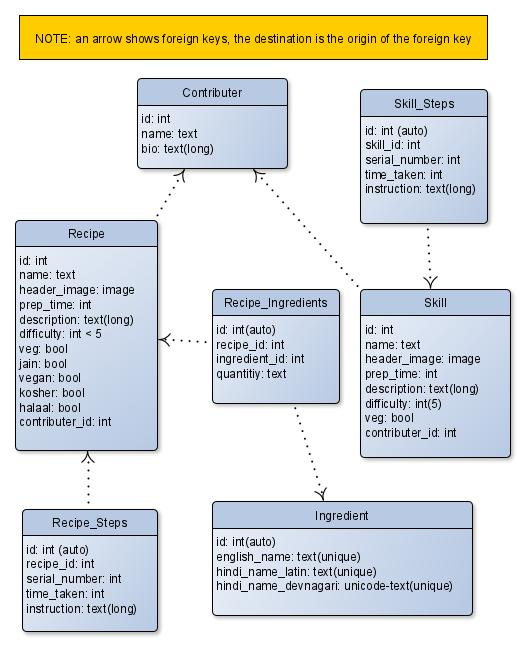
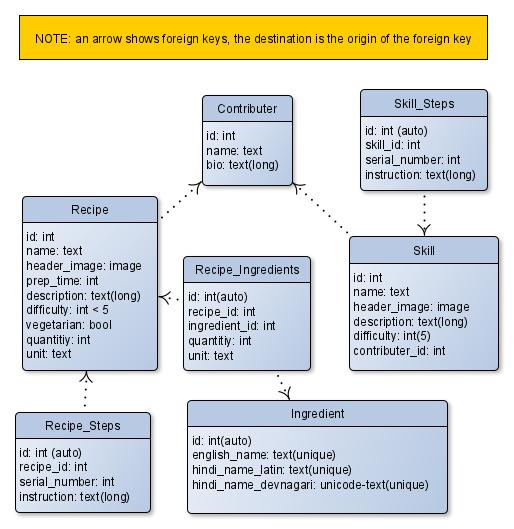
more backend work

diff --git a/Cookbook/controllers.py b/Cookbook/controllers.py
@@ -1,5 +1,8 @@
+from flask_sqlalchemy import FSADeprecationWarning
 from Cookbook import app
 from flask import jsonify, request
+from Cookbook import models
+import pprint
 
 @app.route('/')
 def home():
@@ -13,6 +16,85 @@ def home():
     <a href = "/about">about</a>
     """
     return home
+
+@app.route('/add-recipe', methods = ['POST'])
+def addRecipe():
+    if request.method == 'POST':
+        newRecipeFull = request.get_json(force = True)
+        # this 'full' recipe needs to be broken up into the tables stored in the db
+        #   recipe
+        #   steps
+        #   contributor
+        #   recipe_ingredients and ingredient:
+        #       if the ingredient is in the ingredient table, then add its id
+        #       if not, then add it into the ingredient table and then add its id
+        #       the id must be added to the recipe_ingredients table w/ the recipe id and stuff
+        print("full recipe:")
+        print(newRecipeFull)
+
+        print("recipe:")
+        newRecipe = {
+            "name": newRecipeFull["name"],
+            "prep_time": newRecipeFull["prep_time"],
+            "description": newRecipeFull["description"],
+            "difficulty": newRecipeFull["difficulty"],
+            "vegetarian": newRecipeFull["vegetarian"],
+            "quantity": newRecipeFull["quantity"],
+            "unit": newRecipeFull["unit"]
+        }
+        print(newRecipe)
+        # add the new recipe here
+        newRecipeId = 0 # this must be the id of the recipe added above
+
+        print("recipe steps:")
+        for step in newRecipeFull["recipe_steps"]:
+            newRecipeStep = {
+                "recipe_id": newRecipeId,
+                "serial_number": step["serial_number"],
+                "instruction": step["instruction"]
+            }
+            print(newRecipeStep)
+            # add the new recipe_step to the db here
+
+        print("recipe tags:")
+        for tag in newRecipeFull["recipe_tags"]:
+            newTag = {
+                "recipe_id": newRecipeId,
+                "name": tag["name"]
+            }
+            print(newTag)
+            # add the new recipe_tag here
+
+        print("ingredients:")
+        for ingredient in newRecipeFull["recipe_ingredients"]:
+            newIngredient = {
+                "english_name": ingredient["english_name"],
+                "hindi_name_latin": ingredient["hindi_name_latin"],
+                "hindi_name_devnagari": ingredient["hindi_name_devnagari"]
+            }
+            print(newIngredient)
+            # add new Ingredient to the db
+            #   if it exists: return the id
+            #   if it doesn't: add new and return the id
+            IngredientId = 0 # the id(int) returned from the above insertion
+            newRecipeIngredient = {
+                "recipe_id": newRecipeId,
+                "ingredient_id": IngredientId,
+                "quantity": ingredient["quantity"],
+                "unit": ingredient["unit"]
+            }
+            print(newRecipeIngredient)
+        
+        print("contributor:")
+        contributor = {
+            "name": newRecipeFull["contributor_name"]
+        }
+        print(contributor)
+        # add the contributor if it doesn't exist
+
+        return "success"
+    else:
+        return "error"
 
 @app.route('/recipes')
 def recipes():

diff --git a/Cookbook/models.py b/Cookbook/models.py
@@ -1,0 +1,60 @@
+from enum import unique
+from Cookbook import db
+
+class Ingredient(db.Model):
+    id = db.Column(db.Integer(), primary_key = True)
+    english_name = db.Column(db.String(), unique = True, nullable = False)
+    hindi_name_latin = db.Column(db.String(), nullable = False, unique = True)
+    hindi_name_devnagari = db.Column(db.String(), unique = True)
+
+    # def __init__(english_name, hindi_name_latin, hindi_name_devnagari):
+    #     pass
+
+class Contributor(db.Model):
+    id = db.Column(db.Integer(), primary_key = True)
+    name = db.Column(db.String(), nullable = False, unique = True)
+    bio = db.Column(db.String())
+
+class Recipe(db.Model):
+    id = db.Column(db.Integer(), primary_key = True)
+    name = db.Column(db.String(), nullable = False, unique = True)
+    #header_image = db.Column(db.Blob(), nullable = False)
+    prep_time = db.Column(db.Integer, nullable = False)
+    description = db.Column(db.String(), nullable = False)
+    difficulty = db.Column(db.String(), nullable = False)
+    contributor_id = db.Column(db.Integer(), db.ForeignKey("Contributor.id"), nullable = False)
+    vegetarian = db.Column(db.String(), nullable = False)
+    quantity = db.Column(db.Integer(), nullable = False)
+    unit = db.Column(db.String(), nullable = False)
+
+class Recipe_Steps(db.Model):
+    id = db.Column(db.Integer(), primary_key = True)
+    recipe_id = db.Column(db.Integer(), db.ForeignKey("Recipe.id"), nullable = False)
+    serial_number = db.Column(db.Integer(), nullable = False)
+    instruction = db.Column(db.String(), nullable = False)
+
+class Recipe_Ingredients(db.Model):
+    id = db.Column(db.Integer(), primary_key = True)
+    recipe_id = db.Column(db.Integer(), db.ForeignKey("Recipe.id"), nullable = False)
+    ingredient_id = db.Column(db.Integer(), nullable = False)
+    quantity = db.Column(db.Integer(), nullable = False)
+    unit = db.Column(db.String(), nullable = False)
+
+class Skill(db.Model):
+    id = db.Column(db.Integer(), primary_key = True)
+    name = db.Column(db.String(), nullable = False, unique = True)
+    #header_image = db.Column(db.Blob(), nullable = False)
+    description = db.Column(db.String(), nullable = False)
+    difficulty = db.Column(db.String(), nullable = False)
+    contributor_id = db.Column(db.Integer(), db.ForeignKey("Contributor.id"), nullable = False)
+
+class Skill_Steps(db.Model):
+    id = db.Column(db.Integer(), primary_key = True)
+    recipe_id = db.Column(db.Integer(), db.ForeignKey("Skill.id"), nullable = False)
+    serial_number = db.Column(db.Integer(), nullable = False)
+    instruction = db.Column(db.String(), nullable = False)
+
+class Tags(db.Model):
+    id = db.Column(db.Integer(), primary_key = True)
+    recipeId = db.Column(db.Integer(), db.ForeignKey("Recipe.id"), nullable = False)
+    name = db.Column(db.String(), nullable = False)

diff --git a/Cookbook/__init__.py b/Cookbook/__init__.py
@@ -1,17 +1,17 @@
 from flask import Flask, jsonify
-# from flask_sqlalchemy import SQLAlchemy
+from flask_sqlalchemy import SQLAlchemy
 
 # creating the flask app
 app = Flask(__name__)
-# app.config['SQLALCHEMY_DATABASE_URI'] = 'sqlite:///classroom.db'
-# app.config['SQLALCHEMY_TRACK_MODIFICATIONS'] = False # we don't need real time updates as this is a REST based api
+app.config['SQLALCHEMY_DATABASE_URI'] = 'sqlite:///Cookbook.db'
+app.config['SQLALCHEMY_TRACK_MODIFICATIONS'] = False # we don't need real time updates as this is a REST based api
 
-# db = SQLAlchemy(app)
+db = SQLAlchemy(app)
 
 
 # the controller has the 'brains' of the app, so we run (import) that here
 from Cookbook import controllers
 
-# # this will initialize the student table
-# from classroom.models import Student
-# db.create_all()
+# this will initialize the student table
+from Cookbook.models import *
+db.create_all()
